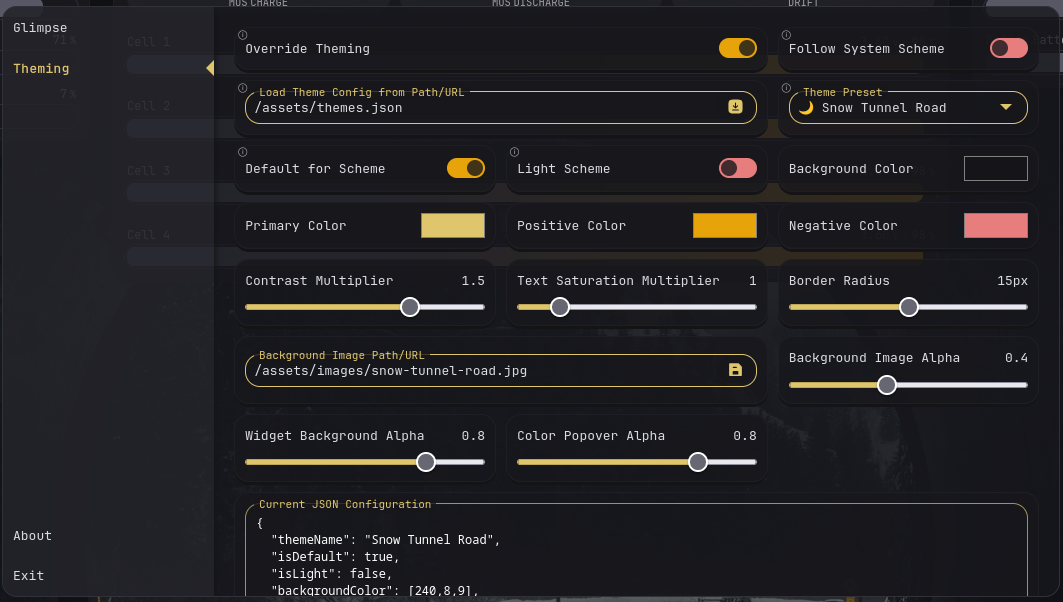
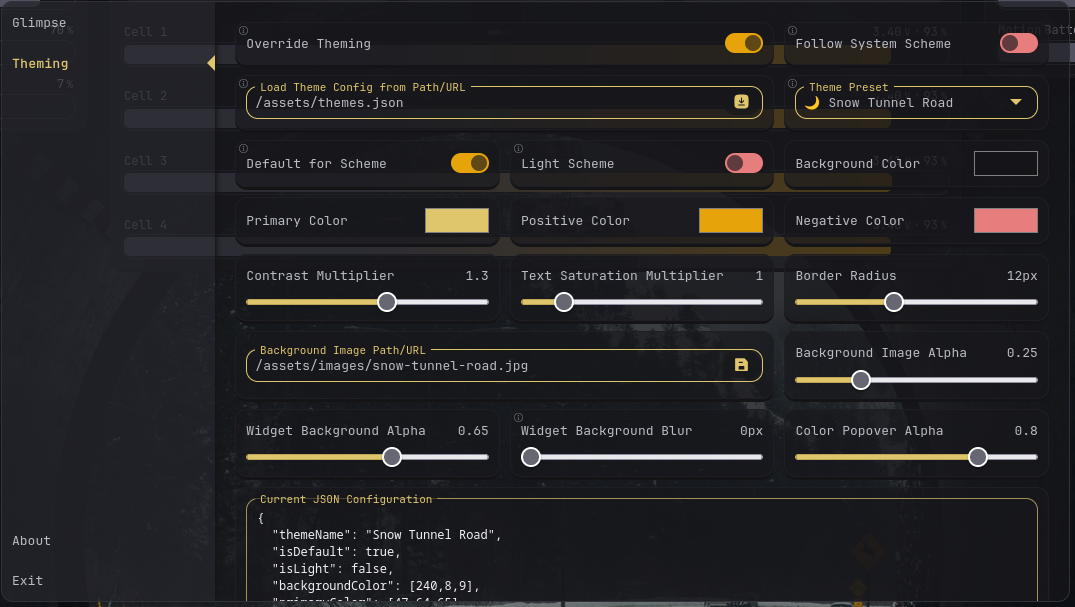
(custom-settings): screenshots and readme

diff --git a/theming/README.md b/theming/README.md
@@ -11,6 +11,11 @@ This will replace Glance's default theming and will do more than just change col
 > 2. There is no syncing, you can only fetch a configuration.
 > 3. Config fetching using URL will mostly not work unless you proxy it or have full control over it.
 
+
+> [!WARNING]
+>
+> Using the Widget Background Blur is GPU-intensive!
+
 # Dependency
 - [CREATE_ELEMENT](../global-functions/CREATE_ELEMENT.js) *(required)*
 - [Custom Settings](../custom-settings) *(required)* — where the configuration can be modified, `inherits dependency`.
